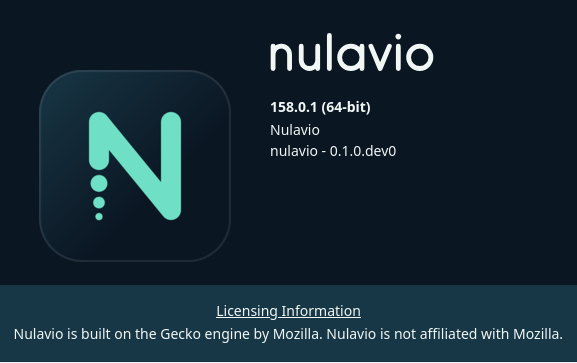
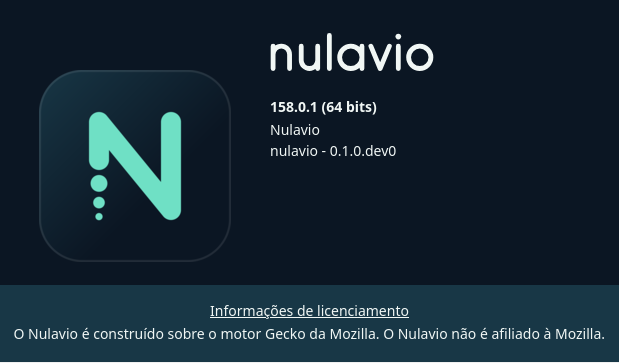
feat(l10n): ship the Nulavio build in English and Portuguese
The build was English-only. Translations now come from firefox-l10n at
the revision Mozilla signed off for the release, read from the verified
source's l10n-changesets.json, fetched sparsely (pt-BR: 3.5 MB) and
packaged with `mach package-multi-locale`. The build follows the desktop
language, as Fedora's Firefox does.

Nulavio's brand strings became localizable and gained a pt-BR
translation, so Portuguese menus say Nulavio and the "not affiliated
with Mozilla" line is translated. Firefox's l10n configuration maps only
the official branding, which needs a three-line patch (0002).
test_15 checks that no "Firefox" leaks into Portuguese UI strings.

diff --git a/browser/branding/nulavio/pref/firefox-branding.js b/browser/branding/nulavio/pref/firefox-branding.js
@@ -44,3 +44,9 @@ pref("browser.safebrowsing.provider.google4.lists", "goog-phish-proto,googpub-ph
 pref("urlclassifier.downloadBlockTable", "");
 pref("urlclassifier.downloadAllowTable", "");
 pref("browser.safebrowsing.downloads.remote.enabled", false);
+
+// Follow the desktop's language among the locales packaged in the build
+// (en-US and pt-BR), as distribution Firefox does. An empty value means "use
+// the OS locales" (intl/locale/LocaleService.cpp); users can still pick a
+// language in Settings.
+pref("intl.locale.requested", "");

diff --git a/scripts/upstream/fetch_firefox_l10n.py b/scripts/upstream/fetch_firefox_l10n.py
@@ -1,0 +1,100 @@
+#!/usr/bin/env python3
+"""Fetch Firefox translations for a verified source tree (Track B).
+
+Each locale is taken from github.com/mozilla-l10n/firefox-l10n at the
+revision Mozilla signed off for this release. That revision is read from
+<source>/browser/locales/l10n-changesets.json, which is part of the
+signature-verified source tarball, and git checks every fetched object
+against it. Only the requested locale directories are downloaded (partial,
+sparse fetch). Nulavio's own translations (browser/l10n/<locale>/, e.g. the
+brand names) are then laid over them.
+
+    python3 -I scripts/upstream/fetch_firefox_l10n.py --source <firefox-src> \
+        --dest ~/.cache/nulavio-build/mozbuild/l10n-central --git-dir ~/.cache/nulavio-build/l10n-git pt-BR
+"""
+
+from __future__ import annotations
+
+import argparse
+import json
+import os
+import re
+import shutil
+import subprocess
+from pathlib import Path
+
+ROOT = Path(__file__).resolve().parents[2]
+OVERLAY = ROOT / "browser" / "l10n"
+REMOTE = "https://github.com/mozilla-l10n/firefox-l10n.git"
+STAMP = ".nulavio-l10n-revision"
+LOCALE_RE = re.compile(r"^[a-z]{2,3}(-[A-Z]{2}|-[a-zA-Z]+)*$")
+REVISION_RE = re.compile(r"^[0-9a-f]{40}$")
+
+
+def revisions(source: Path, locales: list[str]) -> dict[str, str]:
+    """Map each locale to its signed-off firefox-l10n revision."""
+    changesets = json.loads((source / "browser" / "locales" / "l10n-changesets.json").read_text(encoding="utf-8"))
+    out = {}
+    for locale in locales:
+        if not LOCALE_RE.match(locale):
+            raise SystemExit(f"invalid locale name: {locale!r}")
+        entry = changesets.get(locale)
+        if not entry or "linux64" not in entry.get("platforms", []):
+            raise SystemExit(f"{locale} is not shipped by Mozilla for linux64 in this release")
+        revision = entry["revision"]
+        if not REVISION_RE.match(revision):
+            raise SystemExit(f"unexpected revision for {locale}: {revision!r}")
+        out[locale] = revision
+    return out
+
+
+def git(git_dir: Path, *args: str) -> str:
+    env = {**os.environ, "GIT_CONFIG_NOSYSTEM": "1", "GIT_TERMINAL_PROMPT": "0"}
+    result = subprocess.run(["git", "-C", str(git_dir), *args], check=True, capture_output=True, text=True, env=env)
+    return result.stdout.strip()
+
+
+def fetch(git_dir: Path, locale: str, revision: str) -> Path:
+    if not (git_dir / ".git").exists():
+        git_dir.mkdir(parents=True, exist_ok=True)
+        git(git_dir, "init", "-q")
+        git(git_dir, "remote", "add", "origin", REMOTE)
+    git(git_dir, "sparse-checkout", "set", "--no-cone", f"/{locale}/")
+    git(git_dir, "fetch", "-q", "--depth", "1", "--filter=blob:none", "origin", revision)
+    git(git_dir, "-c", "advice.detachedHead=false", "checkout", "-q", "--force", revision)
+    head = git(git_dir, "rev-parse", "HEAD")
+    if head != revision:
+        raise SystemExit(f"checked out {head}, expected {revision}")
+    return git_dir / locale
+
+
+def install(git_dir: Path, dest: Path, locale: str, revision: str) -> None:
+    target = dest / locale
+    stamp = target / STAMP
+    if not (stamp.exists() and stamp.read_text().strip() == revision):
+        checkout = fetch(git_dir, locale, revision)
+        if target.exists():
+            shutil.rmtree(target)
+        shutil.copytree(checkout, target, ignore=shutil.ignore_patterns(".git"))
+        stamp.write_text(revision + "\n")
+    overlay = OVERLAY / locale
+    if overlay.is_dir():
+        shutil.copytree(overlay, target, dirs_exist_ok=True)
+    print(f"{locale}: firefox-l10n {revision[:12]}" + (" + Nulavio overlay" if overlay.is_dir() else ""))
+
+
+def main() -> int:
+    parser = argparse.ArgumentParser(description=__doc__.splitlines()[0])
+    parser.add_argument("--source", type=Path, required=True, help="verified Firefox source tree")
+    parser.add_argument("--dest", type=Path, required=True, help="L10NBASEDIR (one directory per locale)")
+    parser.add_argument("--git-dir", type=Path, required=True, help="working repository for the sparse fetch")
+    parser.add_argument("locales", nargs="+")
+    args = parser.parse_args()
+    args.dest.mkdir(parents=True, exist_ok=True)
+    for locale, revision in revisions(args.source, args.locales).items():
+        install(args.git_dir, args.dest, locale, revision)
+    return 0
+
+
+if __name__ == "__main__":
+    raise SystemExit(main())

diff --git a/tests/unit/test_track_b.py b/tests/unit/test_track_b.py
@@ -2,6 +2,7 @@
 
 from __future__ import annotations
 
+import json
 import re
 import shutil
 import sys
@@ -11,8 +12,10 @@ from pathlib import Path
 
 ROOT = Path(__file__).resolve().parents[2]
 sys.path.insert(0, str(ROOT / "scripts" / "build"))
+sys.path.insert(0, str(ROOT / "scripts" / "upstream"))
 
 import apply_patches  # noqa: E402
+import fetch_firefox_l10n  # noqa: E402
 import make_distribution  # noqa: E402
 
 MOZCONFIG = ROOT / "browser" / "build" / "mozconfig"
@@ -102,6 +105,56 @@ class BrandingPrefsTest(unittest.TestCase):
             self.assertIn(required, names)
         for unavailable in ("goog-badbinurl-proto", "goog-downloadwhite-proto"):
             self.assertNotIn(unavailable, names, "one unavailable list makes the whole batch update fail")
+
+
+class LocalizationTest(unittest.TestCase):
+    REV = "1e95d1c5f519c3fbde715345ae7beb56a2c79077"
+
+    def source(self, changesets: dict) -> Path:
+        tmp = Path(tempfile.mkdtemp())
+        self.addCleanup(shutil.rmtree, tmp, True)
+        (tmp / "browser" / "locales").mkdir(parents=True)
+        (tmp / "browser" / "locales" / "l10n-changesets.json").write_text(json.dumps(changesets))
+        return tmp
+
+    def test_revision_comes_from_the_verified_source(self):
+        src = self.source({"pt-BR": {"platforms": ["linux64"], "revision": self.REV}})
+        self.assertEqual(fetch_firefox_l10n.revisions(src, ["pt-BR"]), {"pt-BR": self.REV})
+
+    def test_rejects_unknown_unshipped_or_malformed_input(self):
+        src = self.source(
+            {
+                "pt-BR": {"platforms": ["win64"], "revision": self.REV},
+                "de": {"platforms": ["linux64"], "revision": "main"},
+            }
+        )
+        for locales in (["pt-BR"], ["de"], ["xx"], ["../etc"]):
+            with self.subTest(locales=locales), self.assertRaises(SystemExit):
+                fetch_firefox_l10n.revisions(src, locales)
+
+    def test_brand_translation_matches_english_ids_and_keeps_the_name(self):
+        def ids(path: Path) -> set[str]:
+            lines = path.read_text().splitlines()
+            return {line.split("=")[0].strip() for line in lines if "=" in line and not line.startswith("#")}
+
+        en = BRANDING / "locales" / "en-US"
+        pt = ROOT / "browser" / "l10n" / "pt-BR" / "browser" / "branding" / "nulavio"
+        self.assertEqual(ids(en / "brand.ftl"), ids(pt / "brand.ftl"))
+        self.assertEqual(ids(en / "brand.properties"), ids(pt / "brand.properties"))
+        for line in (pt / "brand.ftl").read_text().splitlines():
+            if line.startswith("-"):
+                self.assertTrue(line.endswith("= Nulavio"), line)
+
+    def test_branding_strings_are_localizable_and_follow_the_os(self):
+        jar = (BRANDING / "locales" / "jar.mn").read_text()
+        self.assertIn("(%*.ftl)", jar)
+        self.assertIn("(%brand.properties)", jar)
+        self.assertIn('pref("intl.locale.requested", "");', (BRANDING / "pref" / "firefox-branding.js").read_text())
+
+    def test_build_packages_the_locales(self):
+        script = (ROOT / "scripts" / "build" / "build_nulavio.sh").read_text()
+        self.assertIn("fetch_firefox_l10n.py", script)
+        self.assertIn("package-multi-locale --locales en-US", script)
 
 
 class PatchStackTest(unittest.TestCase):

diff --git a/tests/integration/test_engine_slice.py b/tests/integration/test_engine_slice.py
@@ -406,6 +406,39 @@ class EngineSliceTest(unittest.TestCase):
         self.assertIn("e=deceptiveBlocked", uri)
         self.m.navigate("about:blank")
 
+    def test_15_nulavio_build_speaks_portuguese_with_its_own_brand(self):
+        if self.m.chrome("return Services.appinfo.name;") != "Nulavio":
+            self.skipTest("Track A engine (distribution Firefox)")
+        state = self.chrome_async(
+            """
+            const before = Services.locale.requestedLocales;
+            const available = Services.locale.availableLocales;
+            const followsOs = Services.prefs.getDefaultBranch("").getStringPref("intl.locale.requested", null) === "";
+            const strings = async () => {
+              const l10n = new Localization(["branding/brand.ftl", "browser/aboutDialog.ftl"]);
+              return {upToDate: await l10n.formatValue("update-noUpdatesFound"),
+                      trademark: await l10n.formatValue("trademarkInfo"),
+                      shortName: Services.strings.createBundle("chrome://branding/locale/brand.properties")
+                                   .GetStringFromName("brandShortName")};
+            };
+            Services.locale.requestedLocales = ["pt-BR"];
+            const pt = {app: Services.locale.appLocaleAsBCP47, ...(await strings())};
+            Services.locale.requestedLocales = before;
+            return {available, followsOs, pt};
+            """,
+            [],
+        )
+        self.assertIn("pt-BR", state["available"])
+        self.assertIn("en-US", state["available"])
+        self.assertTrue(state["followsOs"], "the build must follow the desktop language")
+        pt = state["pt"]
+        self.assertEqual(pt["app"], "pt-BR")
+        self.assertEqual(pt["upToDate"], "O Nulavio está atualizado")
+        self.assertEqual(pt["shortName"], "Nulavio")
+        self.assertIn("não é afiliado à Mozilla", pt["trademark"])
+        for value in pt.values():
+            self.assertNotIn("Firefox", value, "Mozilla brand leaked into the Portuguese UI")
+
     def test_11_record_environment(self):
         info = self.m.chrome(
             "return {version: Services.appinfo.version, buildID: Services.appinfo.appBuildID, os: Services.appinfo.OS,"

diff --git a/docs/architecture/build.md b/docs/architecture/build.md
@@ -8,11 +8,16 @@ Status: **development spike, first build succeeded on 2026-10-24.** Builds are n
 scripts/build/build_nulavio.sh <version>
  ├─ scripts/upstream/fetch_firefox_source.py   SHA256SUMS signature checked against the pinned Mozilla key,
  │                                              tarball hashed while streaming, extracted only on match
+ ├─ scripts/upstream/fetch_firefox_l10n.py     translations (default pt-BR) at the revision signed off in the
+ │                                              verified source's l10n-changesets.json + Nulavio's browser/l10n/
  ├─ scripts/build/make_branding.py             browser/branding/nulavio/ (text, reviewed in git)
  │                                              + generated icons/logos/wordmarks from docs/brand (no Mozilla art)
+ │                                              + the Nulavio Shell built-in add-on (make_shell.py)
+ ├─ scripts/build/apply_patches.py             browser/patches/series (2 patches)
  ├─ browser/build/mozconfig                    copied into the source tree
  └─ podman (rootless) localhost/nulavio-build:f44   ci/containers/fedora-build.Containerfile
-      ./mach build && ./mach package            toolchains fetched by --enable-bootstrap into a cached volume
+      ./mach build && ./mach package-multi-locale --locales en-US pt-BR
+                                                toolchains fetched by --enable-bootstrap into a cached volume
 ```
 
 Work directory (outside the repository): `${NULAVIO_BUILD_DIR:-~/.cache/nulavio-build}`, containing `downloads/`, `firefox-<v>/` (source and `obj-nulavio/`), `mozbuild/` (toolchains) and `logs/`. Deleting it removes everything the build created. Nothing is installed on the host.
@@ -76,6 +81,14 @@ Caveats:
 - **The key is not secret from users.** It is embedded in every binary, as in Firefox and Chromium builds. The API restriction limits misuse to Safe Browsing quota. Keep it out of git and logs anyway, and rotate it in the Cloud console if it is abused.
 - **Privacy.** Lists are downloaded and matched locally. On a local match the browser sends a short hash prefix (not the URL) to Google to confirm. Nothing goes to Nulavio.
 - Other maintainers build with **their own** key (same steps: project → enable "Safe Browsing API" → API key restricted to it → save it to the path above).
+
+## Languages
+
+The build packages **en-US and pt-BR** (`NULAVIO_LOCALES`, default `pt-BR`). `fetch_firefox_l10n.py` reads each locale's firefox-l10n revision from `browser/locales/l10n-changesets.json` inside the signature-verified source, fetches only that locale's directory (partial, sparse git fetch; about 3.5 MB and 2 s for pt-BR) and checks the checked-out commit. Nulavio's own translations in `browser/l10n/<locale>/` (today the brand names and the "not affiliated with Mozilla" line) are laid over it.
+
+- The branding strings are localizable (`%` entries in `browser/branding/nulavio/locales/jar.mn`). Firefox's l10n configuration only maps the official branding, so patch `0002` adds Nulavio's branding directory. Without it, packaging fails (`MissingJarSource`).
+- The build follows the desktop's language (`intl.locale.requested=""`, as Fedora's Firefox does); users can pick another one in Settings.
+- `test_15` checks that pt-BR is packaged, that "O Nulavio está atualizado" uses the Nulavio brand, that the legal line is translated and that no "Firefox" leaks into Portuguese UI strings.
 
 ## Nulavio Shell (built-in add-on)
 

diff --git a/docs/adr/0001-engine-selection.md b/docs/adr/0001-engine-selection.md
@@ -59,6 +59,7 @@ Every item below was produced in this session and can be reproduced with the com
 | E18 | **Ubuntu userspace** (26.10 container, Firefox 158.0.1 from Mozilla's APT repo with fingerprint-checked key) | Integration **15/15**, twice. Revealed: Mozilla builds keep sideloaded extensions disabled until approved (E8 corrected), and Marionette tab-handle quirks (test client fixed) | [`ci/containers/ubuntu-itest.Containerfile`](../../ci/containers/ubuntu-itest.Containerfile) |
 | E19 | **Track B with a Google Safe Browsing key** (2026-10-25): dedicated Cloud project `nulavio`, key restricted to the Safe Browsing API, mounted read-only into the build | Integration **17/17** with network tests. Found and fixed on the way: (a) one batch per provider and `mwb-4b`/`csdda-32b` are not served to non-partner keys (HTTP 404), so every list update failed until the branding prefs requested only available lists; (b) the remote download check needs a partner-only API (HTTP 403) and is off; (c) non-`MOZILLA_OFFICIAL` builds enable `devtools.chrome.enabled` and `devtools.debugger.remote-enabled` by default, now restored to `false`; (d) new content processes run ~30 ms before seccomp applies (normal Gecko startup; `test_04` re-checks instead of sampling once) | [evidence](../research/evidence/trackb-158.0.1-safebrowsing.json), [build](../architecture/build.md#google-safe-browsing-key) |
 | E20 | **Nulavio Shell as a built-in add-on** (2026-10-25) | Firefox 158 registers any `builtin-addons/<name>/manifest.json` in `browser.jar` at build time; building it from the branding directory needs **no patch**. The built-in add-on is active, system, hidden and not removable from the profile. New tab override works even with `browser.newtabpage.enabled=false`. Integration: Nulavio build 22/22; Fedora Firefox runs the same Shell tests with a temporary install | `tests/integration/test_shell.py`, [build](../architecture/build.md#nulavio-shell-built-in-add-on) |
+| E21 | **Track B in Portuguese** (2026-10-25) | `mach package-multi-locale` with pt-BR from the firefox-l10n revision pinned in the verified source (3.5 MB, 2 s). Firefox maps only the official branding for translation, so localizing Nulavio's brand needs patch 0002 (3 lines in `l10n.toml`). Integration 24/24 on the build, including `test_15` (no "Firefox" in pt-BR UI strings) | [build](../architecture/build.md#languages) |
 | E13 | Firefox build requirements | 64-bit Linux, "4GB RAM minimum, 8GB+ recommended", "At least 30GB of free disk space". No build-time figure is published. | [Linux build docs](https://firefox-source-docs.mozilla.org/setup/linux_build.html) |
 
 ## Comparison

diff --git a/CONTRIBUTING.md b/CONTRIBUTING.md
@@ -36,7 +36,7 @@ Tests never use your real profile: integration tests set `NULAVIO_HOME` to a tem
 scripts/build/build_nulavio.sh 158.0.1   # verified source -> branding -> patches -> container build
 ```
 
-Everything happens in rootless podman containers and in `~/.cache/nulavio-build` (about 23 GB). Nothing is installed on the host.
+Everything happens in rootless podman containers and in `~/.cache/nulavio-build` (about 23 GB). Nothing is installed on the host. See [docs/architecture/build.md](docs/architecture/build.md).
 
 The build needs **your own** Google Safe Browsing key; without it phishing and malware protection would be inactive, so the script stops. Create a Google Cloud project, enable "Safe Browsing API", create an API key restricted to that API, then save it without echoing it:
 
@@ -45,7 +45,11 @@ install -d -m 700 ~/.config/nulavio-build
 (umask 077; read -rs -p "Safe Browsing key: " k && printf '%s\n' "$k" > ~/.config/nulavio-build/google-safebrowsing.key; unset k; echo)
 ```
 
-Never commit it or paste it into issues or logs. For a local experiment only, `NULAVIO_ALLOW_NO_SAFEBROWSING_KEY=1` builds without it; such a build must never be shared. See [docs/architecture/build.md](docs/architecture/build.md). Patches go in `browser/patches/` with `Owner:` and `Upstream:` headers, listed in `series`. Prefer prefs, policies, branding or built-in add-ons over patches.
+Never commit it or paste it into issues or logs. For a local experiment only, `NULAVIO_ALLOW_NO_SAFEBROWSING_KEY=1` builds without it; such a build must never be shared.
+
+Languages: the build packages en-US plus `NULAVIO_LOCALES` (default `pt-BR`), fetched at the revision Mozilla signed off for the release. Nulavio's own strings for other languages go in `browser/l10n/<locale>/`.
+
+Patches go in `browser/patches/` with `Owner:` and `Upstream:` headers, listed in `series`. Prefer prefs, policies, branding or built-in add-ons over patches.
 
 ## Common changes
 

diff --git a/README.md b/README.md
@@ -25,7 +25,7 @@ Verified on Fedora 44 KDE Plasma 6.7.5 (Wayland), Firefox 158.0.1. Each item has
 - Nothing is sent to Nulavio. There is no Nulavio server.
 - Verified on **Ubuntu userspace** too (Firefox from Mozilla's APT repository): 15/15 integration tests.
 
-**Track B (development build):** `scripts/build/build_nulavio.sh 158.0.1` builds a Nulavio-branded browser from signature-verified Firefox source in a rootless container. It takes about 52 min and 23 GB on the reference laptop. With a Google Safe Browsing key (kept outside the repository), the build passes all 17 integration tests, including an end-to-end phishing-protection test. Download reputation is not available to non-partner keys (residual risk R15). The build includes the **Nulavio Shell**: a new tab with search and the live state of each protection, and a warning page for downloaded installers and scripts (Show in folder / Delete, no Open). See [build](docs/architecture/build.md).
+**Track B (development build):** `scripts/build/build_nulavio.sh 158.0.1` builds a Nulavio-branded browser from signature-verified Firefox source in a rootless container. It takes about 52 min and 23 GB on the reference laptop. With a Google Safe Browsing key (kept outside the repository), the build passes all 17 integration tests, including an end-to-end phishing-protection test. Download reputation is not available to non-partner keys (residual risk R15). The build includes the **Nulavio Shell**: a new tab with search and the live state of each protection, and a warning page for downloaded installers and scripts (Show in folder / Delete, no Open). It ships in English and Portuguese and follows the desktop language. See [build](docs/architecture/build.md).
 
 <p align="center"><img src="docs/brand/assets/review/trackb-about-dialog.png" alt="About Nulavio dialog from the Track B build" width="480"></p>
 

diff --git a/docs/product/roadmap.md b/docs/product/roadmap.md
@@ -30,7 +30,7 @@ Each milestone has a definition of done (DoD). "Done" requires the DoD to be ver
 ## Phase 2 — Browser vertical slice · **Track A done; Track B dev build done**
 
 - [x] Track A: launcher, isolated profile, start page, desktop identity, chrome theme
-- [x] Track B inputs: `browser/branding/nulavio/` + generated assets, `browser/build/mozconfig`, patch stack (`browser/patches/`, 1 patch), container build script
+- [x] Track B inputs: `browser/branding/nulavio/` + generated assets, `browser/build/mozconfig`, patch stack (`browser/patches/`, 2 patches: vendor name, l10n mapping of the branding), container build script
 - [x] `distribution/` generated from `browser/config/` (`distribution.ini` defaults + `policies.json`), verified active in the build (`test_13`)
 - [x] Google Safe Browsing API key from a secret: dedicated Google Cloud project, key restricted to the Safe Browsing API, build passes 17/17 incl. the end-to-end phishing test
 - [x] Nulavio Shell built-in add-on (`browser/shell/`), built from the branding directory with no Mozilla file patched
@@ -38,6 +38,7 @@ Each milestone has a definition of done (DoD). "Done" requires the DoD to be ver
 - [x] Flow E executable-download warning (compensates R15): Show in folder / Delete, no Open
 - [ ] Google's download-protection API for Track B (request access) (R15)
 - [ ] Flow E inside the engine's downloads panel (needs engine UI work; today a Nulavio page opens next to it)
+- [x] Track B in Portuguese: en-US + pt-BR packaged from signed-off firefox-l10n revisions, brand translated, follows the desktop language
 
 **DoD:** a branded Nulavio binary built from verified source opens a window on Fedora KDE Wayland with the sandbox verified by `test_04`, with no Mozilla marks in the UI.
 

diff --git a/docs/product/requirements.md b/docs/product/requirements.md
@@ -12,7 +12,7 @@ Status legend: **Done** (implemented and verified by a test or recorded evidence
 | FR-04 | Downloads, saved privately, no auto-open | **Done**. Track B adds the executable-download warning (flow E) | `test_07`, `test_shell` 03–05 |
 | FR-05 | Isolated Nulavio profile, separate from Firefox profiles | **Done** | `test_09`, registry hashes, path unit tests |
 | FR-06 | Multiple profiles (work/personal) | **Preview** (CLI `--profile`) | profile unit tests |
-| FR-07 | Nulavio identity: icon, app name in the desktop, start page | **Preview** (desktop entry, app_id, start page, chrome theme; engine UI still says Firefox) | `test_01`, ADR E3 |
+| FR-07 | Nulavio identity: icon, app name in the desktop, start page | **Done in Track B** (engine UI says Nulavio in English and Portuguese, About dialog, new tab). Track A preview: desktop entry, app_id, start page, chrome theme; engine UI says Firefox | `test_01`, `test_13`, `test_15`, ADR E3 |
 | FR-08 | New tab with Nulavio identity | **Done (Track B)**: built-in Nulavio Shell new tab with search and live protection status. Track A: start page on launch and Home | `test_shell` 01–02 |
 | FR-09 | Ad and tracker blocking on first run, reversible per site | **Done** (uBO + ETP Strict; per-site toggles are upstream UI) | `test_03`, `test_08` |
 | FR-10 | Proton Pass official extension works | **Preview**: install, signature, background, popup Done; **login and autofill on a real site done on the maintainer's desktop** (2026-10-25) | `test_password_extensions` |
